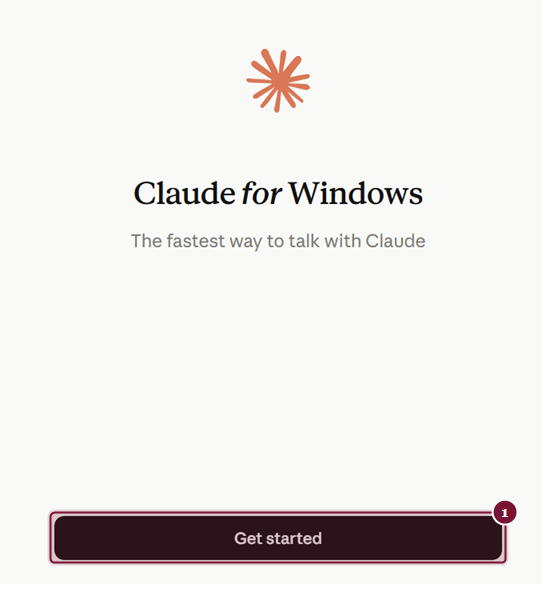
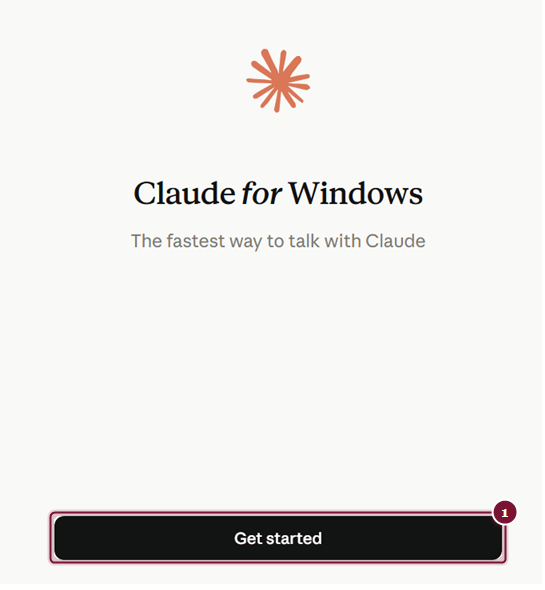
Desktop guide: transparent annotation boxes (remove pink fill), dates as 19.10.2026

Changed region(s): [[0.4367, 0.8847, 0.5927, 0.9458]]

diff --git a/desktop/index.html b/desktop/index.html
@@ -17,7 +17,7 @@
   <div class="hero-inner">
     <span class="eyebrow"><span class="dot"></span><bdi>מדריך Legal Mind</bdi></span>
     <h1 class="hero-title"><bdi dir="ltr">Claude Desktop</bdi> לעורכי דין: היכרות, התקנה וההבדל מהדפדפן</h1>
-    <p class="hero-sub" style="opacity:.78;font-size:.92em;margin-top:-4px">עודכן לאחרונה: 19 באוקטובר 2026. המדריך נבדק מול התיעוד הרשמי של <bdi>Anthropic</bdi>, ורשימת השינויים בגרסה זו מופיעה בסופו.</p>
+    <p class="hero-sub" style="opacity:.78;font-size:.92em;margin-top:-4px">עודכן לאחרונה: 19.10.2026. המדריך נבדק מול התיעוד הרשמי של <bdi>Anthropic</bdi>, ורשימת השינויים בגרסה זו מופיעה בסופו.</p>
     <p class="hero-kicker">למי מיועד המדריך?</p>
     <p class="hero-sub"><b>מטרת <bdi>Legal Mind</bdi> היא להנגיש חומר מקצועי לעורכי דין ולמשרדי עורכי דין. תוכן מדריך זה אינו מהווה בשום פנים ואופן ייעוץ משפטי, ואינו תחליף להתייעצות עם גורם מוסמך בתוך המשרד או מחוצה לו. <bdi>Legal Mind</bdi> אינה אחראית להחלטות שיתקבלו על בסיס המדריך.</b></p>
     <p class="hero-sub">המדריך מיועד לעורכי דין ולצוותים משפטיים שכבר משתמשים ב-<bdi>Claude</bdi> בדפדפן, ורוצים להכיר את אפליקציית <bdi>Claude Desktop</bdi>: מה היא נותנת, איך מתקינים אותה בבטחה, כולל מענה לחששות המוכרים סביב התקנת תוכנות, ומה ההבדל בינה לבין העבודה בדפדפן.</p>
@@ -415,14 +415,14 @@
         <p>הצעד הבא בסדרה: <a href="../cowork/">מרכז מדריכי <bdi>Cowork</bdi> של <bdi>Legal Mind</bdi> לעורכי דין</a>: שם תלמדו איך להפוך את <bdi>Claude</bdi> משותף לשיחה לעוזר שעובד בשבילכם: על משימות אמיתיות, בקבצים אמיתיים, עם תוצרים מוגמרים.</p>
         <p>ואחריו, כשתהיו מוכנים: <bdi>Claude Code</bdi>, שנפתח מהסמל <bdi dir="ltr">&lt;/&gt;</bdi> שראיתם בסעיף 7. לכך מוקדשים מדריכי <bdi>Claude Code</bdi> של <bdi>Legal Mind</bdi>, ואין צורך בידע בתכנות כדי להתחיל בהם.</p>
 
-        <h3 class="h2">מה השתנה בגרסה זו (19 באוקטובר 2026)</h3>
+        <h3 class="h2">מה השתנה בגרסה זו (19.10.2026)</h3>
         <ul class="bullets">
           <li>סעיפים 2, 3, 4, 8 ו-9: מעבר <bdi>Cowork</bdi> לענן במנויי <bdi>Pro</bdi> ו-<bdi>Max</bdi> מ-6 באוקטובר 2026, גישה לקבצים במחשב גם במשימות מתוזמנות, ולמי רלוונטיות דרישות <bdi>Windows</bdi>.</li>
           <li>סעיפים 2 ו-9: לוח הזמנים המעודכן של איחוד הצ'אט ו-<bdi>Cowork</bdi> במנויי <bdi>Team</bdi>, <bdi>Free</bdi> ו-<bdi>Enterprise</bdi>.</li>
           <li>סעיף 2: <bdi>Claude Docs</bdi>, <bdi>Slides</bdi> ו-<bdi>Design</bdi> יצאו מבטא וזמינים בכל המנויים מ-8 באוקטובר 2026.</li>
           <li>סעיף 4: דרישת המערכת ל-<bdi>Mac</bdi> עודכנה ל-<bdi>macOS 13</bdi> ומעלה.</li>
         </ul>
-        <h3 class="h2">גרסה קודמת (27 בספטמבר 2026)</h3>
+        <h3 class="h2">גרסה קודמת (27.9.2026)</h3>
         <ul class="bullets">
           <li>סעיפים 2, 7, 9 ו-10: איחוד הצ'אט ו-<bdi>Cowork</bdi> ל-<bdi>Claude</bdi> אחד (הודעת <bdi>Anthropic</bdi> מ-16 בספטמבר 2026), והתוספת של <bdi>Claude Docs</bdi> ו-<bdi>Claude Slides</bdi>.</li>
           <li>סעיפים 4, 5 ו-9: דרישות <bdi>Cowork</bdi> ב-<bdi>Windows</bdi>: הרשאות מנהל בהתקנה ורכיב <bdi dir="ltr">Virtual Machine Platform</bdi>, והסבר מה קורה בהתקנה על ידי <bdi>IT</bdi>.</li>
